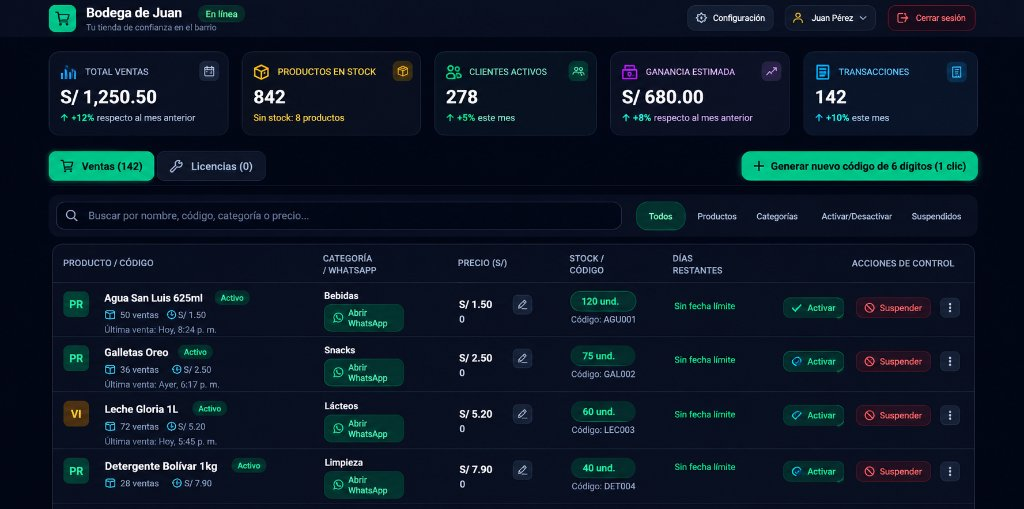
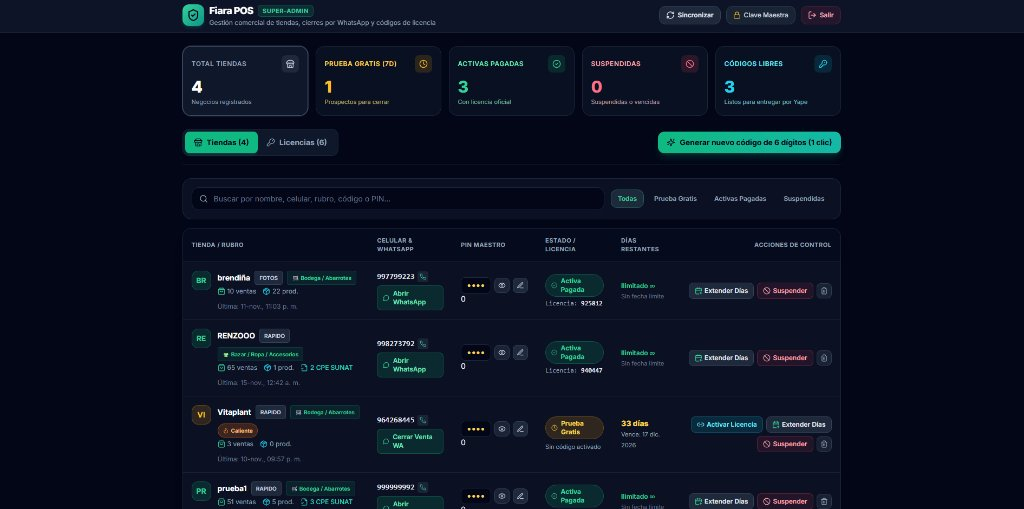
feat: actualizar capturas reales de Fiara POS y Super-Admin

diff --git a/index.html b/index.html
@@ -51,7 +51,7 @@
 }
 </script>
 
-  <link rel="stylesheet" href="styles.css?v=2.1">
+  <link rel="stylesheet" href="styles.css?v=2.2">
   <link rel="icon" type="image/webp" href="pictures/icon.webp">
 </head>
 
@@ -318,7 +318,7 @@
           <article class="proj-card">
               <div class="proj-thumb device-stage">
                 <div class="device-phone">
-                  <img src="pictures/fiara-pos-mobile.jpg" alt="Fiara POS en smartphone - Teclado de cobro rápido">
+                  <img src="pictures/fiara-pos-mobile.jpg?v=2.2" alt="Fiara POS en smartphone - Teclado de cobro rápido">
                 </div>
               </div>
               <div class="proj-top">
@@ -344,7 +344,7 @@
                     <span></span><span></span><span></span>
                     <small>admin.fiara.pe</small>
                   </div>
-                  <img src="pictures/fiara-admin.jpg" alt="Dashboard corporativo de Fiara Super-Admin">
+                  <img src="pictures/fiara-admin.jpg?v=2.2" alt="Dashboard corporativo de Fiara Super-Admin">
                 </div>
               </div>
               <div class="proj-top">
@@ -510,7 +510,7 @@
     </div>
   </div>
 
-  <script src="script.js?v=2.1"></script>
+  <script src="script.js?v=2.2"></script>
 </body>
 
 </html>
